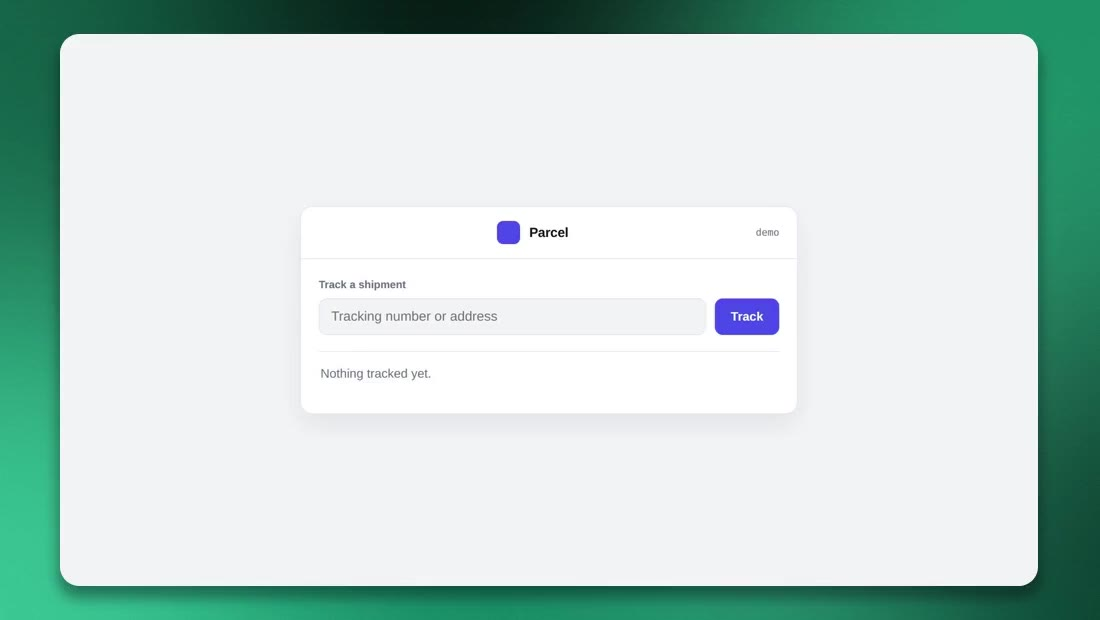
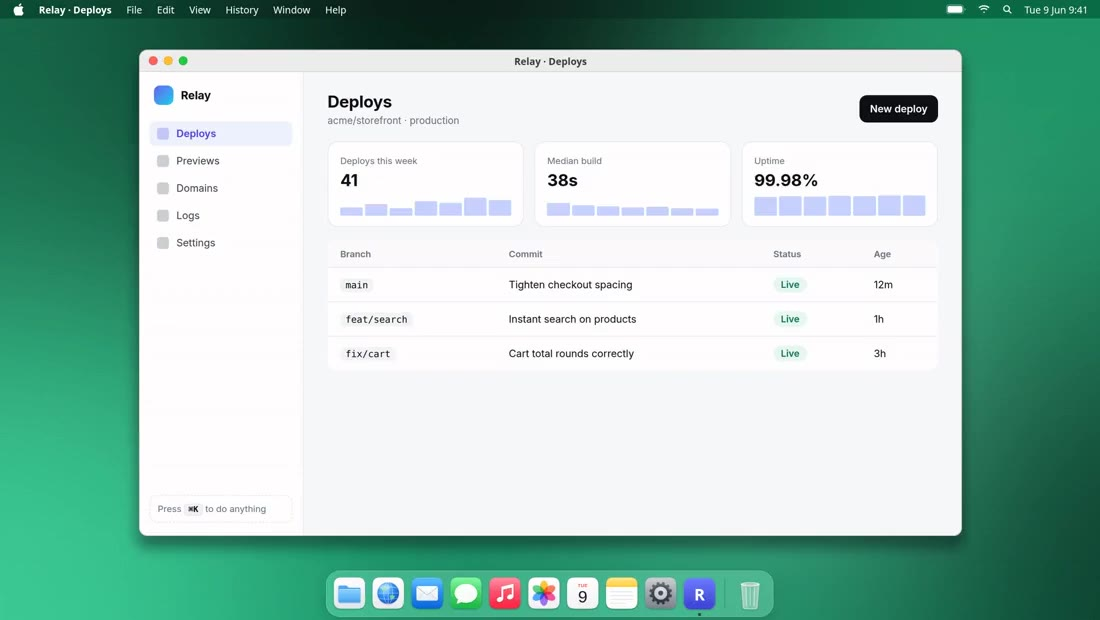
Homepage take: a deploy dashboard filmed as a Mac, desktop and dock on, on brand green
examples/hero is a small fictional dashboard with a command palette, typing, a deploy that goes
live and a toast; take.jsonl films it with the macOS frame and desktop. The README GIF is cut from
the same take.

diff --git a/site/index.html b/site/index.html
@@ -32,7 +32,7 @@
 
 <link rel="stylesheet" href="/brand/tokens.css?v=5">
 <link rel="stylesheet" href="/style.css?v=5">
-<script type="application/ld+json">{"@context":"https://schema.org","@graph":[{"@type":"Organization","@id":"https://kaviri.dev/#org","name":"kaviri","url":"https://kaviri.dev/","logo":"https://kaviri.dev/apple-touch-icon.png","email":"hello@kaviri.dev","sameAs":["https://github.com/kaviridev/kaviri","https://github.com/kaviridev"]},{"@type":"WebSite","@id":"https://kaviri.dev/#website","name":"kaviri","url":"https://kaviri.dev/","inLanguage":"en","publisher":{"@id":"https://kaviri.dev/#org"}},{"@type":"SoftwareApplication","@id":"https://kaviri.dev/#software","name":"kaviri","alternateName":"kaviri recording browser","description":"An open-source recording browser that films product demos from a script in your repository, in CI, with the camera zooms derived from the interactions.","url":"https://kaviri.dev/","applicationCategory":"DeveloperApplication","applicationSubCategory":"Screen recording","operatingSystem":"Linux, macOS","softwareVersion":"0.1.0","license":"https://www.apache.org/licenses/LICENSE-2.0","isAccessibleForFree":true,"codeRepository":"https://github.com/kaviridev/kaviri","downloadUrl":"https://github.com/kaviridev/kaviri","screenshot":"https://kaviri.dev/demo-poster.jpg","offers":{"@type":"Offer","price":"0","priceCurrency":"USD"},"publisher":{"@id":"https://kaviri.dev/#org"}},{"@type":"FAQPage","@id":"https://kaviri.dev/#faq","url":"https://kaviri.dev/","mainEntity":[{"@type":"Question","name":"Does it work with my app?","acceptedAnswer":{"@type":"Answer","text":"If a Chromium can open it, yes: a localhost dev server, a staging deploy or production. kaviri drives its own browser over the DevTools protocol, so there is no screen recorder, no OS permission and no Wayland portal involved."}},{"@type":"Question","name":"How is it different from a screen recorder?","acceptedAnswer":{"@type":"Answer","text":"A screen recorder films what a person did once. kaviri films a script, so the same take is made again on every commit, with no display, no mouse and no quiet room. The zooms and pans come from the interactions in the script instead of an editing pass."}},{"@type":"Question","name":"How do I record a demo video in GitHub Actions?","acceptedAnswer":{"@type":"Answer","text":"Start your app in the workflow, then add uses: kaviridev/kaviri@v1 with the path to your script. The action installs ffmpeg and a browser, builds kaviri, records the take and uploads the MP4 as an artifact. The CI guide has the whole workflow."}},{"@type":"Question","name":"Can it film the mobile version of my site?","acceptedAnswer":{"@type":"Answer","text":"Yes. One frame op films the take at an iPhone or Android phone's viewport, scale and user agent, inside the device bezel, in 9:16. It is a phone-sized browser, not a native app recorder."}},{"@type":"Question","name":"Do I need the hosted service?","acceptedAnswer":{"@type":"Answer","text":"No. The recorder is the whole product and runs on your laptop or in your own CI. The hosted service saves you the CI minutes, the storage and the stable URL."}},{"@type":"Question","name":"What does the video look like?","acceptedAnswer":{"@type":"Answer","text":"An H.264 MP4, captured at twice the resolution so text is sharp, with a drawn cursor, a backdrop and eased zooms. Presets size it for a README, TikTok, square, landscape or phone."}},{"@type":"Question","name":"Can an AI agent use it?","acceptedAnswer":{"@type":"Answer","text":"Yes. kaviri mcp is a Model Context Protocol server: an agent can open your app, look at what is on screen, film a take and check the poster frame. There is also a plain-text protocol for agents with a shell."}},{"@type":"Question","name":"Is it really open source?","acceptedAnswer":{"@type":"Answer","text":"Apache 2.0, unconditionally. Fork it, ship it inside your own tool, sell the result. The only thing the licence holds back is the name."}},{"@type":"Question","name":"What does kaviri mean?","acceptedAnswer":{"@type":"Answer","text":"It is ChiShona for \"twice, a second time\", said ka-VEE-ree. The demo is not re-recorded. It is made again."}}]},{"@type":"VideoObject","name":"kaviri recording a web app","description":"kaviri recording a web app: the camera zooms onto each click and follows the text caret while typing.","contentUrl":"https://kaviri.dev/demo.mp4?v=2","thumbnailUrl":"https://kaviri.dev/demo-poster.jpg?v=2","publisher":{"@id":"https://kaviri.dev/#org"},"duration":"PT7S","uploadDate":"2026-11-14T09:49:28+00:00"},{"@type":"VideoObject","name":"kaviri filming its own GitHub repository on an iPhone","description":"kaviri filming its own GitHub repository on an iPhone: it opens the repo, taps Actions, opens the demo workflow run and scrolls to the videos that run produced.","contentUrl":"https://kaviri.dev/demos/github-ios.mp4?v=2","thumbnailUrl":"https://kaviri.dev/demos/github-ios.jpg?v=2","publisher":{"@id":"https://kaviri.dev/#org"},"duration":"PT16S","uploadDate":"2026-11-14T09:49:39+00:00"}]}</script>
+<script type="application/ld+json">{"@context":"https://schema.org","@graph":[{"@type":"Organization","@id":"https://kaviri.dev/#org","name":"kaviri","url":"https://kaviri.dev/","logo":"https://kaviri.dev/apple-touch-icon.png","email":"hello@kaviri.dev","sameAs":["https://github.com/kaviridev/kaviri","https://github.com/kaviridev"]},{"@type":"WebSite","@id":"https://kaviri.dev/#website","name":"kaviri","url":"https://kaviri.dev/","inLanguage":"en","publisher":{"@id":"https://kaviri.dev/#org"}},{"@type":"SoftwareApplication","@id":"https://kaviri.dev/#software","name":"kaviri","alternateName":"kaviri recording browser","description":"An open-source recording browser that films product demos from a script in your repository, in CI, with the camera zooms derived from the interactions.","url":"https://kaviri.dev/","applicationCategory":"DeveloperApplication","applicationSubCategory":"Screen recording","operatingSystem":"Linux, macOS","softwareVersion":"0.1.0","license":"https://www.apache.org/licenses/LICENSE-2.0","isAccessibleForFree":true,"codeRepository":"https://github.com/kaviridev/kaviri","downloadUrl":"https://github.com/kaviridev/kaviri","screenshot":"https://kaviri.dev/demo-poster.jpg","offers":{"@type":"Offer","price":"0","priceCurrency":"USD"},"publisher":{"@id":"https://kaviri.dev/#org"}},{"@type":"FAQPage","@id":"https://kaviri.dev/#faq","url":"https://kaviri.dev/","mainEntity":[{"@type":"Question","name":"Does it work with my app?","acceptedAnswer":{"@type":"Answer","text":"If a Chromium can open it, yes: a localhost dev server, a staging deploy or production. kaviri drives its own browser over the DevTools protocol, so there is no screen recorder, no OS permission and no Wayland portal involved."}},{"@type":"Question","name":"How is it different from a screen recorder?","acceptedAnswer":{"@type":"Answer","text":"A screen recorder films what a person did once. kaviri films a script, so the same take is made again on every commit, with no display, no mouse and no quiet room. The zooms and pans come from the interactions in the script instead of an editing pass."}},{"@type":"Question","name":"How do I record a demo video in GitHub Actions?","acceptedAnswer":{"@type":"Answer","text":"Start your app in the workflow, then add uses: kaviridev/kaviri@v1 with the path to your script. The action installs ffmpeg and a browser, builds kaviri, records the take and uploads the MP4 as an artifact. The CI guide has the whole workflow."}},{"@type":"Question","name":"Can it film the mobile version of my site?","acceptedAnswer":{"@type":"Answer","text":"Yes. One frame op films the take at an iPhone or Android phone's viewport, scale and user agent, inside the device bezel, in 9:16. It is a phone-sized browser, not a native app recorder."}},{"@type":"Question","name":"Do I need the hosted service?","acceptedAnswer":{"@type":"Answer","text":"No. The recorder is the whole product and runs on your laptop or in your own CI. The hosted service saves you the CI minutes, the storage and the stable URL."}},{"@type":"Question","name":"What does the video look like?","acceptedAnswer":{"@type":"Answer","text":"An H.264 MP4, captured at twice the resolution so text is sharp, with a drawn cursor, a backdrop and eased zooms. Presets size it for a README, TikTok, square, landscape or phone."}},{"@type":"Question","name":"Can an AI agent use it?","acceptedAnswer":{"@type":"Answer","text":"Yes. kaviri mcp is a Model Context Protocol server: an agent can open your app, look at what is on screen, film a take and check the poster frame. There is also a plain-text protocol for agents with a shell."}},{"@type":"Question","name":"Is it really open source?","acceptedAnswer":{"@type":"Answer","text":"Apache 2.0, unconditionally. Fork it, ship it inside your own tool, sell the result. The only thing the licence holds back is the name."}},{"@type":"Question","name":"What does kaviri mean?","acceptedAnswer":{"@type":"Answer","text":"It is ChiShona for \"twice, a second time\", said ka-VEE-ree. The demo is not re-recorded. It is made again."}}]},{"@type":"VideoObject","name":"kaviri filming a deploy dashboard in a macOS window","description":"kaviri filming a deploy dashboard in a macOS window: it opens the command palette, types a deploy, and the camera follows the new deploy until it goes live.","contentUrl":"https://kaviri.dev/demo.mp4?v=3","thumbnailUrl":"https://kaviri.dev/demo-poster.jpg?v=3","publisher":{"@id":"https://kaviri.dev/#org"},"duration":"PT9S","uploadDate":"2026-11-14T10:06:11+00:00"},{"@type":"VideoObject","name":"kaviri filming its own GitHub repository on an iPhone","description":"kaviri filming its own GitHub repository on an iPhone: it opens the repo, taps Actions, opens the demo workflow run and scrolls to the videos that run produced.","contentUrl":"https://kaviri.dev/demos/github-ios.mp4?v=2","thumbnailUrl":"https://kaviri.dev/demos/github-ios.jpg?v=2","publisher":{"@id":"https://kaviri.dev/#org"},"duration":"PT16S","uploadDate":"2026-11-14T09:49:39+00:00"}]}</script>
 <script src="/site.js?v=5"></script>
 </head>
 <body>
@@ -85,15 +85,15 @@
           <div class="window-in">
             <div class="window-bar">
               <span class="dots" aria-hidden="true"><i></i><i></i><i></i></span>
-              <span class="title">kaviri record --script examples/demo.jsonl --out demo.mp4</span>
+              <span class="title">kaviri record --script examples/hero/take.jsonl --out demo.mp4</span>
               <span class="live">CI</span>
             </div>
-            <video data-player data-player-ambient src="/demo.mp4?v=2" poster="/demo-poster.jpg?v=2"
+            <video data-player data-player-ambient src="/demo.mp4?v=3" poster="/demo-poster.jpg?v=3"
                    autoplay muted loop playsinline preload="metadata" width="1100" height="620"
-                   aria-label="kaviri recording a web app: the camera zooms onto each click and follows the text caret while typing."></video>
+                   aria-label="kaviri filming a deploy dashboard in a macOS window: it opens the command palette, types a deploy, and the camera follows the new deploy until it goes live."></video>
           </div>
         </div>
-        <p class="showcase-cap">Recorded by kaviri from the 18-line script below. Nobody touched a mouse or chose a camera move.</p>
+        <p class="showcase-cap">Recorded by kaviri from an 18-line script, framed as a Mac. Nobody touched a mouse or chose a camera move.</p>
       </div>
     </div>
   </section>

diff --git a/examples/hero/app.html b/examples/hero/app.html
@@ -1,0 +1,79 @@
+<!doctype html><html lang="en"><meta charset="utf-8"><title>Relay · Deploys</title>
+<style>
+@font-face{font-family:Inter;src:url(../../brand/fonts/inter.woff2) format("woff2");font-weight:100 900}
+*{box-sizing:border-box}
+:root{--ink:#0e1013;--muted:#6b7280;--line:#e7e9ee;--bg:#f7f8fa;--acc:#4f46e5;--ok:#0e7a4f;--okbg:#e6f8ef}
+body{margin:0;font-family:Inter,system-ui,sans-serif;color:var(--ink);background:var(--bg);height:100vh;display:grid;grid-template-columns:220px 1fr}
+aside{background:#fff;border-right:1px solid var(--line);padding:18px 14px;display:flex;flex-direction:column;gap:4px}
+.brand{display:flex;align-items:center;gap:10px;font-weight:700;font-size:15px;margin:0 6px 18px}
+.brand i{width:26px;height:26px;border-radius:8px;background:linear-gradient(135deg,#6366f1,#22d3ee)}
+aside a{display:flex;align-items:center;gap:10px;padding:8px 10px;border-radius:8px;color:#374151;text-decoration:none;font-size:13.5px}
+aside a.on{background:#eef2ff;color:var(--acc);font-weight:600}
+aside a span{width:16px;height:16px;border-radius:4px;background:currentColor;opacity:.25}
+.kbd{margin-top:auto;font-size:12px;color:var(--muted);padding:10px;border:1px dashed var(--line);border-radius:10px}
+.kbd b{font:600 11px ui-monospace,monospace;background:#f1f2f5;border:1px solid var(--line);border-radius:5px;padding:1px 5px;color:var(--ink)}
+main{padding:26px 32px;overflow:hidden}
+.top{display:flex;align-items:center;justify-content:space-between;margin-bottom:20px}
+h1{font-size:22px;margin:0;letter-spacing:-.01em}
+.sub{color:var(--muted);font-size:13px;margin-top:4px}
+button.new{border:0;border-radius:10px;background:var(--ink);color:#fff;font:600 13.5px Inter,sans-serif;padding:10px 14px;cursor:pointer}
+.stats{display:grid;grid-template-columns:repeat(3,1fr);gap:14px;margin-bottom:18px}
+.card{background:#fff;border:1px solid var(--line);border-radius:14px;padding:14px 16px}
+.card small{color:var(--muted);font-size:12px}.card b{display:block;font-size:22px;margin-top:4px}
+.spark{display:flex;align-items:flex-end;gap:3px;height:28px;margin-top:6px}.spark i{flex:1;background:#c7d2fe;border-radius:2px}
+table{width:100%;border-collapse:collapse;background:#fff;border:1px solid var(--line);border-radius:14px;overflow:hidden;font-size:13.5px}
+th{text-align:left;font-weight:600;color:var(--muted);font-size:12px;padding:10px 16px;border-bottom:1px solid var(--line);background:#fbfbfc}
+td{padding:12px 16px;border-bottom:1px solid var(--line)}tr:last-child td{border-bottom:0}
+.br{font:500 12.5px ui-monospace,monospace;background:#f3f4f6;border-radius:6px;padding:2px 7px}
+.st{display:inline-flex;align-items:center;gap:6px;font-weight:600;font-size:12.5px;border-radius:999px;padding:3px 10px}
+.st.live{background:var(--okbg);color:var(--ok)}.st.build{background:#fff7e6;color:#b45309}
+.st.build::before{content:"";width:8px;height:8px;border-radius:50%;border:2px solid currentColor;border-right-color:transparent;animation:spin .8s linear infinite}
+@keyframes spin{to{transform:rotate(360deg)}}
+tr.fresh{animation:in .5s ease both}@keyframes in{from{background:#eef2ff;opacity:0;transform:translateY(-6px)}}
+.ov{position:fixed;inset:0;background:rgba(14,16,19,.28);display:none;align-items:flex-start;justify-content:center;padding-top:90px}
+.ov.on{display:flex}
+.pal{width:520px;background:#fff;border-radius:16px;box-shadow:0 30px 80px rgba(0,0,0,.25);overflow:hidden;animation:pop .18s ease}
+@keyframes pop{from{transform:scale(.97);opacity:0}}
+.pal input{width:100%;border:0;border-bottom:1px solid var(--line);padding:16px 18px;font:500 16px Inter,sans-serif;outline:0}
+.pal ul{list-style:none;margin:0;padding:8px}.pal li{padding:10px 12px;border-radius:10px;font-size:14px;display:flex;justify-content:space-between}
+.pal li.sel{background:#eef2ff;color:var(--acc);font-weight:600}.pal li em{font-style:normal;color:var(--muted);font-size:12px}
+.toast{position:fixed;right:24px;bottom:24px;background:var(--ink);color:#fff;border-radius:12px;padding:12px 16px;font-size:13.5px;display:flex;gap:10px;align-items:center;transform:translateY(20px);opacity:0;transition:all .35s}
+.toast.on{transform:none;opacity:1}.toast i{width:18px;height:18px;border-radius:50%;background:#3ddc97}
+</style>
+<aside>
+  <div class="brand"><i></i>Relay</div>
+  <a class="on" href="#"><span></span>Deploys</a><a href="#"><span></span>Previews</a><a href="#"><span></span>Domains</a><a href="#"><span></span>Logs</a><a href="#"><span></span>Settings</a>
+  <div class="kbd">Press <b>&#8984;K</b> to do anything</div>
+</aside>
+<main>
+  <div class="top"><div><h1>Deploys</h1><div class="sub">acme/storefront &middot; production</div></div><button class="new" id="new">New deploy</button></div>
+  <div class="stats">
+    <div class="card"><small>Deploys this week</small><b id="count">41</b><div class="spark"><i style="height:40%"></i><i style="height:55%"></i><i style="height:35%"></i><i style="height:70%"></i><i style="height:60%"></i><i style="height:85%"></i><i style="height:75%" id="bar"></i></div></div>
+    <div class="card"><small>Median build</small><b>38s</b><div class="spark"><i style="height:60%"></i><i style="height:50%"></i><i style="height:45%"></i><i style="height:40%"></i><i style="height:42%"></i><i style="height:36%"></i><i style="height:34%"></i></div></div>
+    <div class="card"><small>Uptime</small><b>99.98%</b><div class="spark"><i style="height:90%"></i><i style="height:92%"></i><i style="height:91%"></i><i style="height:95%"></i><i style="height:93%"></i><i style="height:96%"></i><i style="height:97%"></i></div></div>
+  </div>
+  <table><thead><tr><th>Branch</th><th>Commit</th><th>Status</th><th>Age</th></tr></thead>
+  <tbody id="rows">
+    <tr><td><span class="br">main</span></td><td>Tighten checkout spacing</td><td><span class="st live">Live</span></td><td>12m</td></tr>
+    <tr><td><span class="br">feat/search</span></td><td>Instant search on products</td><td><span class="st live">Live</span></td><td>1h</td></tr>
+    <tr><td><span class="br">fix/cart</span></td><td>Cart total rounds correctly</td><td><span class="st live">Live</span></td><td>3h</td></tr>
+  </tbody></table>
+</main>
+<div class="ov" id="ov"><div class="pal"><input id="cmd" placeholder="Type a command or search..." autocomplete="off"><ul id="list"><li class="sel">Deploy a branch <em>&#8629;</em></li><li>Open preview</li><li>Roll back production</li><li>View logs</li></ul></div></div>
+<div class="toast" id="toast"><i></i><span id="tmsg">Preview is live</span></div>
+<script>
+const ov=document.getElementById('ov'),cmd=document.getElementById('cmd'),list=document.getElementById('list');
+const opts=['Deploy a branch','Open preview','Roll back production','View logs'];
+function open(){ov.classList.add('on');cmd.value='';render('');setTimeout(()=>cmd.focus(),20)}
+function render(q){const f=opts.filter(o=>!q||o.toLowerCase().includes(q.toLowerCase().split(' ')[0]));list.innerHTML=(f.length?f:['Deploy '+q]).map((o,i)=>`<li class="${i?'':'sel'}">${o}${i?'':' <em>&#8629;</em>'}</li>`).join('')}
+document.addEventListener('keydown',e=>{if((e.metaKey||e.ctrlKey)&&e.key.toLowerCase()==='k'){e.preventDefault();open()} if(e.key==='Escape')ov.classList.remove('on')});
+document.getElementById('new').onclick=open;
+cmd.addEventListener('input',()=>render(cmd.value));
+cmd.addEventListener('keydown',e=>{if(e.key!=='Enter')return;e.preventDefault();ov.classList.remove('on');
+  const br=(cmd.value.match(/[\w-]+\/[\w-]+/)||['feat/checkout'])[0];
+  const tr=document.createElement('tr');tr.className='fresh';tr.innerHTML=`<td><span class="br">${br}</span></td><td>New checkout flow</td><td><span class="st build" id="s">Building</span></td><td>now</td>`;
+  document.getElementById('rows').prepend(tr);
+  setTimeout(()=>{const s=document.getElementById('s');s.className='st live';s.textContent='Live';document.getElementById('count').textContent='42';document.getElementById('bar').style.height='100%';
+    document.getElementById('tmsg').textContent=br+' is live';document.getElementById('toast').classList.add('on')},1700);
+});
+</script>

diff --git a/README.md b/README.md
@@ -18,10 +18,11 @@ kaviri record --script demos/checkout.jsonl --out checkout.mp4
 ## The demo video
 
 <p align="center">
-  <img src="docs/media/demo.gif" width="720" alt="kaviri filming a web app: the camera zooms onto each field as it is typed into and onto each click.">
+  <img src="docs/media/demo.gif" width="720" alt="kaviri filming a deploy dashboard in a macOS window: command palette, typing, a deploy going live.">
 </p>
 
-Every video in this repo is made by kaviri. The take above is `examples/demo.jsonl`, and
+Every video in this repo is made by kaviri. The take above is
+[`examples/hero/take.jsonl`](examples/hero/take.jsonl), filmed as a Mac with the desktop on, and
 `.github/workflows/demo.yml` records it again on every push that touches `src/`, in two shapes
 (a wide README take and a 9:16 vertical one), and uploads each MP4 as a workflow artifact. If a
 change breaks the recorder, that job goes red, so the demo cannot quietly rot.
